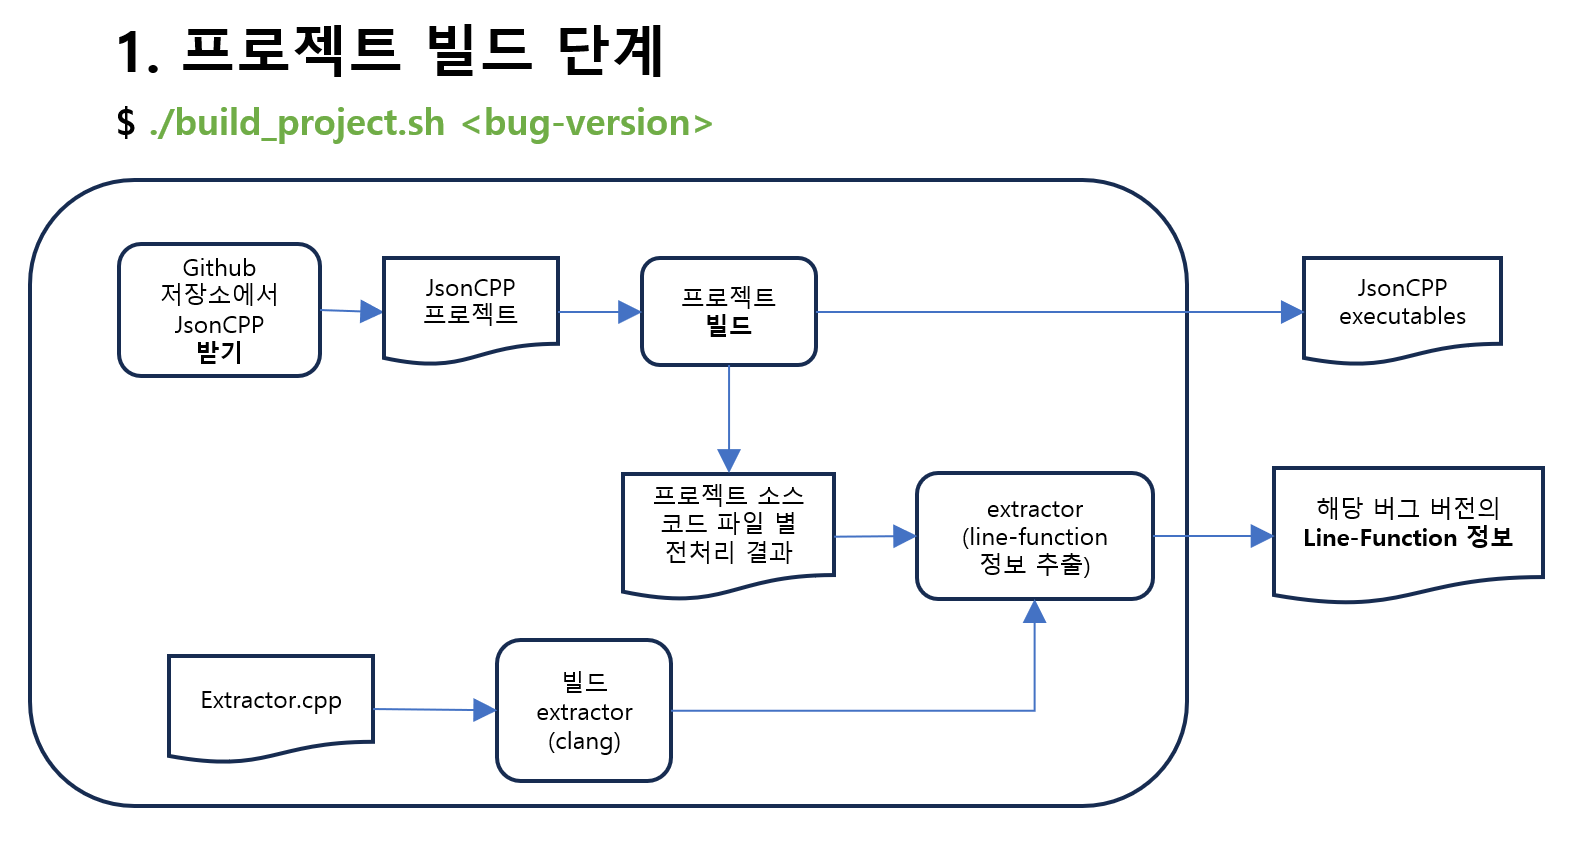
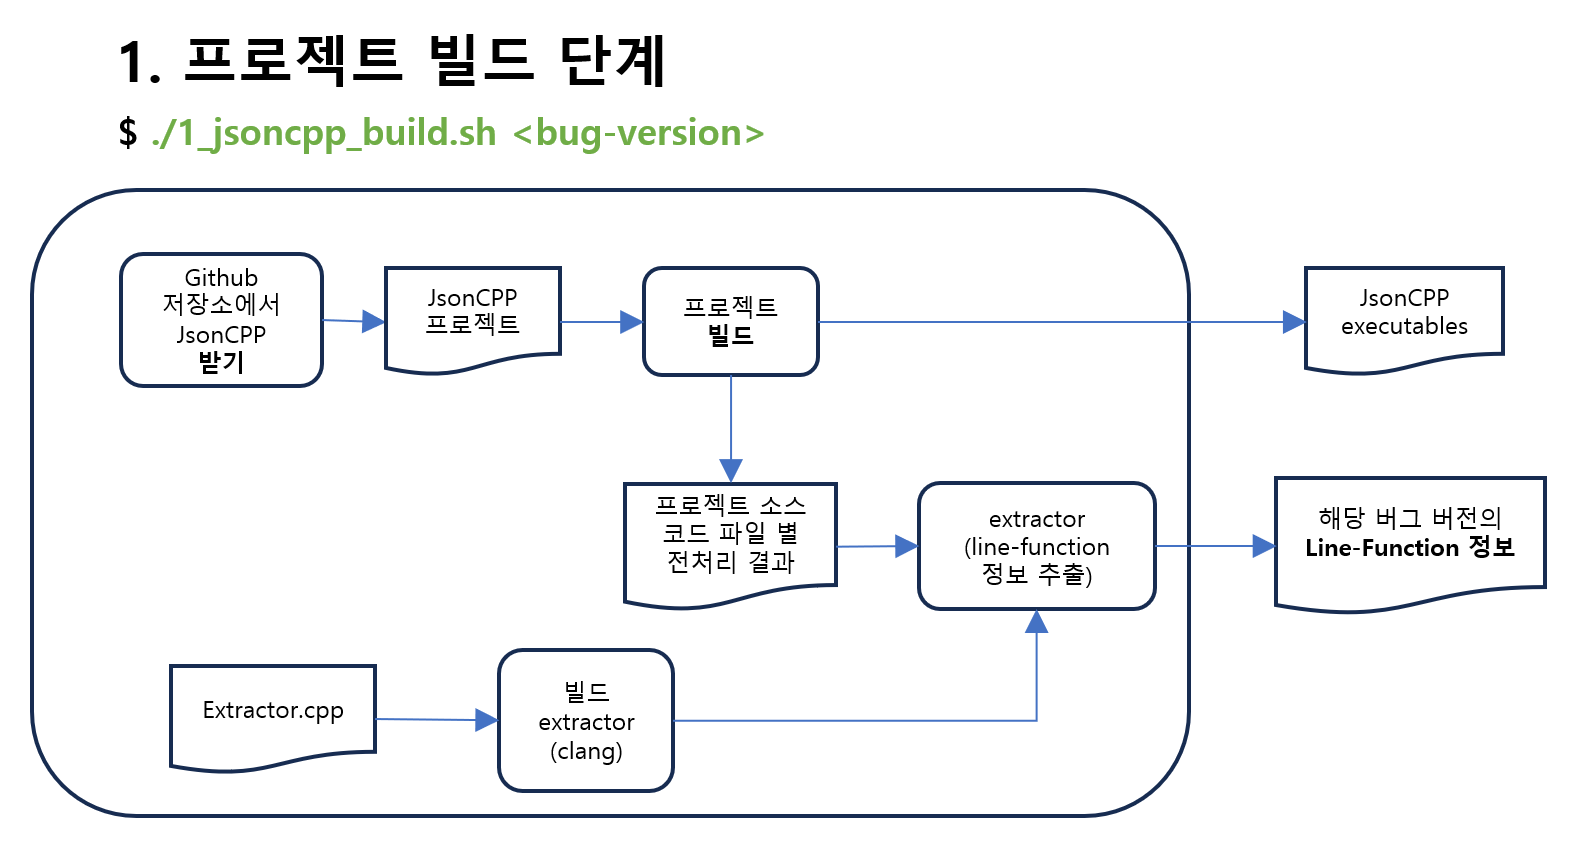
Update README.md: edit command to easier name, add extractor explanations, bring up jsoncpp project size summary

Changed region(s): [[0.031, 0.2776, 0.9918, 0.987], [0.031, 0.0308, 0.7438, 0.2776], [0.0, 0.2776, 0.031, 0.8327]]

diff --git a/README.md b/README.md
@@ -14,6 +14,12 @@
 해당 github 저장소에서 개발 된 도구는 Spectrum-Based Fault Localization (SBFL)을 위해 **스펙트럼 기반 특징 데이터셋**을 생성한다.
 현재 [JsonCPP](https://github.com/open-source-parsers/jsoncpp) 오픈 소스 프로젝트의 총 **4가지 버전**에만 적용된다. 각 버전에는 **하나의 고유한 버그**가 존재 한다.
 
+### Jsoncpp 프로젝트 규모 요약
+* [Understand by SciTool](https://scitools.com/) 활용 JsonCPP 저장소 분석 결과:
+  * 총 file 개수: ~ 40
+  * 총 function 개수: ~ 1,000
+  * 총 line 개수: ~ 10,000
+
 # 2. Github 저장소로부터 도구 다운로드 방법
 * Github 저장소 링크: https://github.com/yheechan/SBFL_dataset_generator.git
 * 다운로드 명령어: 
@@ -77,13 +83,13 @@
 ### SBFL_dataset_generator/bin/ 디렉토리 구조 (사용자에게 제공 되는 명령어)
 ```
 SBFL_dataset_generator/bin
-├─ SBFL_all.sh
-├─ SBFL_single.sh
-├─ build_project.sh
-├─ gen_processed.sh
-├─ gen_spectrum.sh
-├─ rank.sh
-├─ run_testcases.sh
+├─ SBFL_jsoncpp_all.sh
+├─ SBFL_jsoncpp_single.sh
+├─ 1_jsoncpp_build.sh
+├─ 2_jsoncpp_run_testcases.sh
+├─ 3_jsoncpp_gen_spectrum.sh
+├─ 4_jsoncpp_gen_processed.sh
+├─ 5_jsoncpp_rank.sh
 └─ tools/
 ```
 
@@ -100,11 +106,11 @@ bug4 |
 
 작업 디렉토리를 ```SBFL_dataset_generator/bin/```으로 이동해서 실행한다:
 ```
-$ ./build_project.sh bug1
-$ ./run_testcases.sh bug1
-$ ./gen_spectrum.sh bug1
-$ ./gen_processed.sh bug1
-$ ./rank.sh bug1
+$ ./1_jsoncpp_build.sh bug1
+$ ./2_jsoncpp_run_testcases.sh bug1
+$ ./3_jsoncpp_gen_spectrum.sh bug1
+$ ./4_jsoncpp_gen_processed.sh bug1
+$ ./5_jsoncpp_rank.sh bug1
 ```
 
 **참고 사항:** 간편 실행은 [7장](#7-간편-실행-방법)에서 설명된다.
@@ -114,22 +120,22 @@ $ ./rank.sh bug1
 
 작업 디렉토리를 ```SBFL_dataset_generator/bin/```으로 이동해서 실행한다:
 ```
-$ ./build_project.sh <bug-version>
+$ ./1_jsoncpp_build.sh <bug-version>
 ```
 
 * ```SBFL_dataset_generator/subjects/``` 디렉토리가 새롭게 생성된다. 
 * 사용자가 입력 한 ```<bug-version>``` 버전의 jsoncpp 프로젝트가 ```jsoncpp-<bug-version>/``` 이름으로 ```subjects/``` 디렉토리에 자동 저장된다.
-  * ```$ ./build_project.sh bug1``` 명령어를 실행 후 프로젝트 저장 결과
+  * ```$ ./1_jsoncpp_build.sh bug1``` 명령어를 실행 후 프로젝트 저장 결과
     ```
     SBFL_dataset_generator/
       └─subjects/
         └─ jsoncpp-bug1/
     ```
 * 저장하게 된 jsoncpp 프로젝트는 **빌드** 되어 **jsoncpp executables**들이 생성된다.
-* jsoncpp의 소스 코드 전처리 파일들로부터 **line-function 정보**가 ```SBFL_dataset_generator/subjects/jsoncpp-<bug-version>/data/line2function/``` 디렉토리 위치에 ```<bug-version>.line2function.json```이름 형식으로 저장된다.
+* jsoncpp의 소스 코드 전처리 파일들로부터 **line-function 정보**가 ```SBFL_dataset_generator/subjects/jsoncpp-<bug-version>/data/line2function/``` 디렉토리 위치에 ```<bug-version>.line2function.json```이름 형식으로 저장된다 ([4.1.1](#411-extractor-설명)장에서 추가 설명).
   * jsoncpp의 소스 코드 파일들에 대한 line-function 정보를 하나의 파일 ```<bug-version>.line2function.json```에 담기는 것이다.
 
-  ### ```$ ./build_project.sh bug1``` 명령어 실행 후 **line-function 정보** 저장 결과
+  ### ```$ ./1_jsoncpp_build.sh bug1``` 명령어 실행 후 **line-function 정보** 저장 결과
   ```
   SBFL_dataset_generator/subjects/jsoncpp-bug1/
     └─ data/
@@ -148,7 +154,26 @@ $ ./build_project.sh <bug-version>
     ],
     …
   }
+
+### 4.1.1 **Extractor** 설명
+* Extractor는 프로젝트의 ```전처리 소스 코드``` (*.c 혹은 *.cpp)파일을 입력으로 받아 각 ```라인-함수 매핑 정보```를 출력해주는 실행 파일이다.
+  * ```src/clang-frontend/extractor.cpp``` 소스 코드 파일이 실제 clang-fronted 소스 코드를 담고있다.
+  * ```src/clang-frontend/Makefile``` 을 통해 ```extractor.cpp``` 소스 코드를 컴파일해서 ```extractor``` 실행 파일이 생성되는 것이다.
+
+* ```extractor``` 실행 파일 사용 방법:
   ```
+  $ ./extractor <source-code-file>
+  ```
+    * ```<source-code-file>```은 하나의 c 혹은 cpp 파일을 의미한다.
+  
+* 하나의 소스 코드 파일에 대하여 출력 결과 예시/형식
+  * 해당 출력 결과를 사용자에 입맛으로 후처리 필요
+    ```
+    <class-name>##<function-name>##<start-line>##<end_line>\n
+    ClassA##foo(int x, int y)##10##24\n
+    ...
+    ```
+
 **참고 사항:** line-function 정보에 대한 제한 조건은 [8장](#8-라인-함수-매핑-제한-조건)에서 설명된다.
 
 ## 4.2 테스트 케이스 실행 및 커버리지 정보 추출 단계
@@ -156,7 +181,7 @@ $ ./build_project.sh <bug-version>
 
 작업 디렉토리를 ```SBFL_dataset_generator/bin/```으로 이동해서 실행한다:
 ```
-$ ./run_testcases.sh <bug-version>
+$ ./2_jsoncpp_run_testcases.sh <bug-version>
 ```
 
 * jsoncpp executables로부터 jsoncpp의 테스트 케이스 (127개), AFL++로 추출한 테스트 케이스 (1,029개)를 각각 실행한다. (모든 테스트 케이스가 한번씩 순차적으로 실행된다)
@@ -170,7 +195,7 @@ $ ./run_testcases.sh <bug-version>
   *  **우연히 버기 라인을 실행하고도 pass 된 테스트 케이스 (coincident TC)** 정보를 ```SBFL_dataset_generator/subjects/jsoncpp-<bug-version>/data/coverage/coincident/``` 디렉토리에 ```<bug-version>.coincidentTC.txt``` 이름 형식으로 기록된다.
   * [5장](#5-jsoncpp의-테스트-케이스-정보)에서 **각 테스트 케이스들의 특징**과 **coincident TC** 정보 관련 내용이 자세희 설명된다.
 
-### ```$ ./run_testcases.sh bug1``` 명령어 실행 후 커버리지 정보 저장 결과
+### ```$ ./2_jsoncpp_run_testcases.sh bug1``` 명령어 실행 후 커버리지 정보 저장 결과
 ```
 SBFL_dataset_generator/subjects/jsoncpp-bug1/data/
 ├─ coverage/
@@ -197,14 +222,14 @@ SBFL_dataset_generator/subjects/jsoncpp-bug1/data/
 
 작업 디렉토리를 ```SBFL_dataset_generator/bin/```으로 이동해서 실행한다:
 ```
-$ ./gen_spectrum.sh <bug-version>
+$ ./3_jsoncpp_gen_spectrum.sh <bug-version>
 ```
 
 * gcovr 도구를 통해 추출 한 테스트 케이스 별 커버리지 결과를 **csv 포맷으로 후처리**한다.
   * Coincident TC들은 제외된다. ([5장](#5-jsoncpp의-테스트-케이스-정보)에서 coincident TC 제외 관련 내용이 자세히 설명된다)
   * 후처리 된 결과는 ```SBFL_dataset_generator/subjects/jsoncpp-<bug-version>/data/spectra/```데렉토리에 **jsoncpp의 소스 코드 파일** 별로 ```<bug-version>.<file-name>.csv``` 이름 형식으로 저장된다.
 
-  ### ```$ ./gen_spectrum bug1``` 명령어 실행 후 생성 되는 파일 구조 (예시):
+  ### ```$ ./3_jsoncpp_gen_spectrum bug1``` 명령어 실행 후 생성 되는 파일 구조 (예시):
   ```
   SBFL_dataset_generator/subjects/jsoncpp-bug1/data/
   └─ spectra/
@@ -231,7 +256,7 @@ Line no. | TC1 | TC2 | ...
 
 작업 디렉토리를 ```SBFL_dataset_generator/bin/```으로 이동해서 실행한다:
 ```
-$ ./gen_processed.sh <bug-version>
+$ ./4_jsoncpp_gen_processed.sh <bug-version>
 ```
 
 * 후처리 된 커버러지 정보로부터 **라인 단위** 스펙트럽 기반 특징을 추출한다.
@@ -268,7 +293,7 @@ Line no. | ep | ef | np | nf | Binary | GP13 | Jaccard | Naish1 | Naish2 | Ochia
 
 작업 디렉토리를 ```SBFL_dataset_generator/bin/```으로 이동해서 실행한다:
 ```
-$ ./rank.sh <bug-version>
+$ ./5_jsoncpp_rank.sh <bug-version>
 ```
 
 ### 라인 단위 결과
@@ -303,7 +328,7 @@ $ ./rank.sh <bug-version>
   * ```ep, ef, np, nf```열, **SBFL formula 의심도 결과**열, ```bug```열은 [4.4](#44-스펙트럼-기반-특징-추출-단계)단계에서 제시한 예제와 동일하다.
   * 새롭게 추가 된 ```rank```열은 SBFL formula의 의심도 결과 기준 함수의 순위를 의미한다.
 
-### ```$ ./rank.sh bug1``` 실행 후 함수 단위 순위 결과 예시
+### ```$ ./5_jsoncpp_rank.sh bug1``` 실행 후 함수 단위 순위 결과 예시
 ```
 SBFL_dataset_generator/subjects/jsoncpp-bug1/data/
 └─ ranked-function/
@@ -402,11 +427,6 @@ TC12 | CharReaderTest, ossFuzz_18147_3 | bug4 | json_reader.cpp | Json::OurReade
   bug4 | function | 243 | 3 | 910
   bug4 | line | **27** | 3 | 1,126
 
-* [Understand by SciTool](https://scitools.com/) 활용 JsonCPP 저장소 분석 결과:
-  * 총 file 개수: ~ 40
-  * 총 function 개수: ~ 1,000
-  * 총 line 개수: ~ 10,000
-
 # 6. 의심도 순위 결과
 ### 라인 단위 버기 함수의 의심 순위:
   * ```ranked-line/<bug-version>.summary.csv``` ([4.5](#45-의심도-순위-정열-단계)장에서 소개)
@@ -435,11 +455,11 @@ bug4 | 227 | 1 | 1 | 1 | 1 | 1 | 227 | 227
 * 한번의 실행으로 모든 버그 버전들의 **SBFL 데이터셋 생성**
   * 작업 디렉토리를 ```SBFL_dataset_generator/bin/```으로 이동해서 실행한다:
     ```
-    $ ./SBFL_all.sh
+    $ ./SBFL_jsoncpp_all.sh
     ```
   * 각 버그 버전 별 추출 된 모든 정보들은 하나의 디렉토리, ```SBFL_dataset_generator/overall/```에 모음으로 저장된다.
 
-  ### ```<SBFL_all.sh>``` 실행 후 ```SBFL_dataset_generator/overall/``` 디렉토리 구조
+  ### ```<SBFL_jsoncpp_all.sh>``` 실행 후 ```SBFL_dataset_generator/overall/``` 디렉토리 구조
   ```
   SBFL_dataset_generator/overall/
   ├── coverage/
@@ -454,7 +474,7 @@ bug4 | 227 | 1 | 1 | 1 | 1 | 1 | 227 | 227
 * 하나의 버그 버전의 **SBFL 데이터셋 생성**
   * 작업 디렉토리를 ```SBFL_dataset_generator/bin/```으로 이동해서 실행한다:
     ```
-    $ ./SBFL_single.sh <bug-version>
+    $ ./SBFL_jsoncpp_single.sh <bug-version>
     ```
   * 소유 시간 약 4분 10초.
 
